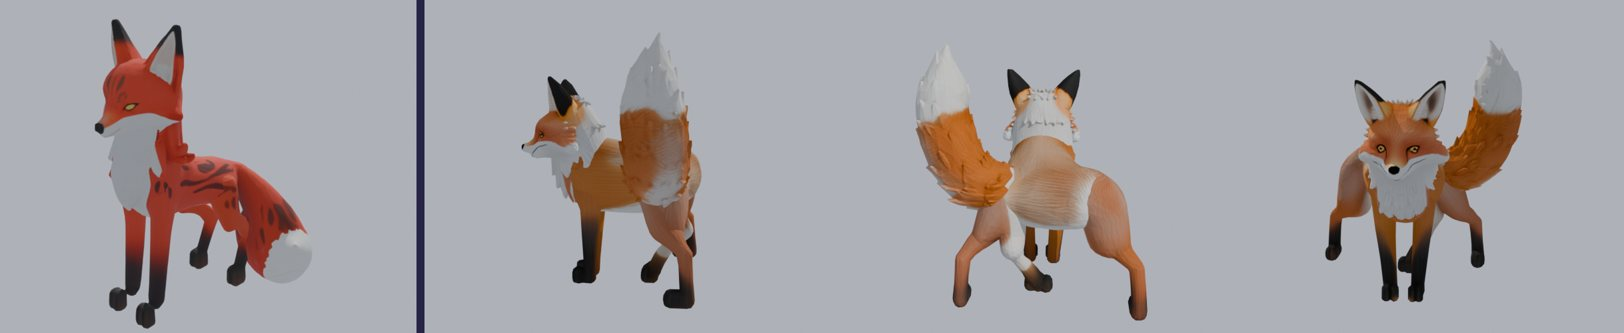
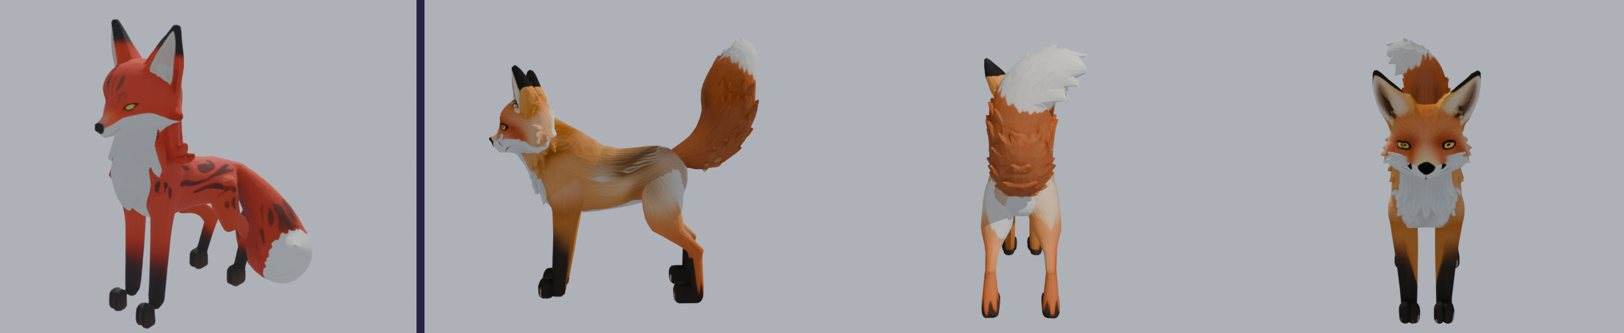
Croquis projet roblox 1

Changed region(s): [[0.2771, 0.1201, 0.4926, 0.9309], [0.5542, 0.1802, 0.7081, 0.961], [0.8005, 0.1201, 0.9544, 0.991]]

diff --git a/projet-roblox-1/index.html b/projet-roblox-1/index.html
@@ -17,7 +17,7 @@ figure{margin:0;background:var(--panel);border:1px solid var(--line);border-radi
 <li>Hydre : 3 essais, il fait un corps debout ou deux dragons collés.</li>
 <li>Renard à trois queues : 3 essais, il fait toujours 5 à 7 queues (renard à neuf queues des légendes).</li>
 <li>Loup : déjà refait (loup 10).</li></ul></div>
-<div class="box"><b>Corrigés après ton retour</b><ul><li>Renard : la 2ᵉ queue (petit bout collé à la patte arrière) est retirée.</li><li>Lion étoilé, Lapin lunaire, Salamandre de feu, Tortue de cristal : regénérés (queue mal placée, enroulée, ou pattes arrière en palmes).</li></ul></div>
+<div class="box"><b>Corrigés après ton retour</b><ul><li>Renard : regénéré (patte arrière tordue et collerette derrière la tête sur l'ancien essai) : debout sur ses 4 pattes, une seule queue.</li><li>Lion étoilé, Lapin lunaire, Salamandre de feu, Tortue de cristal : regénérés (queue mal placée, enroulée, ou pattes arrière en palmes).</li></ul></div>
 <p>Dis-moi ceux que tu refuses (je les regénère) ; les autres, je les mets dans le jeu avec toute la chaîne (squelette, peau propre, poils en relief).</p>
 <figure><img src="CerfEtoiles.jpg" alt="Cerf étoilé : actuel puis nouveau de profil, de dos et de face" loading="lazy"><figcaption><b>Cerf étoilé</b></figcaption></figure>
 <figure><img src="ChatGalactique.jpg" alt="Chat galactique : actuel puis nouveau de profil, de dos et de face" loading="lazy"><figcaption><b>Chat galactique</b></figcaption></figure>
